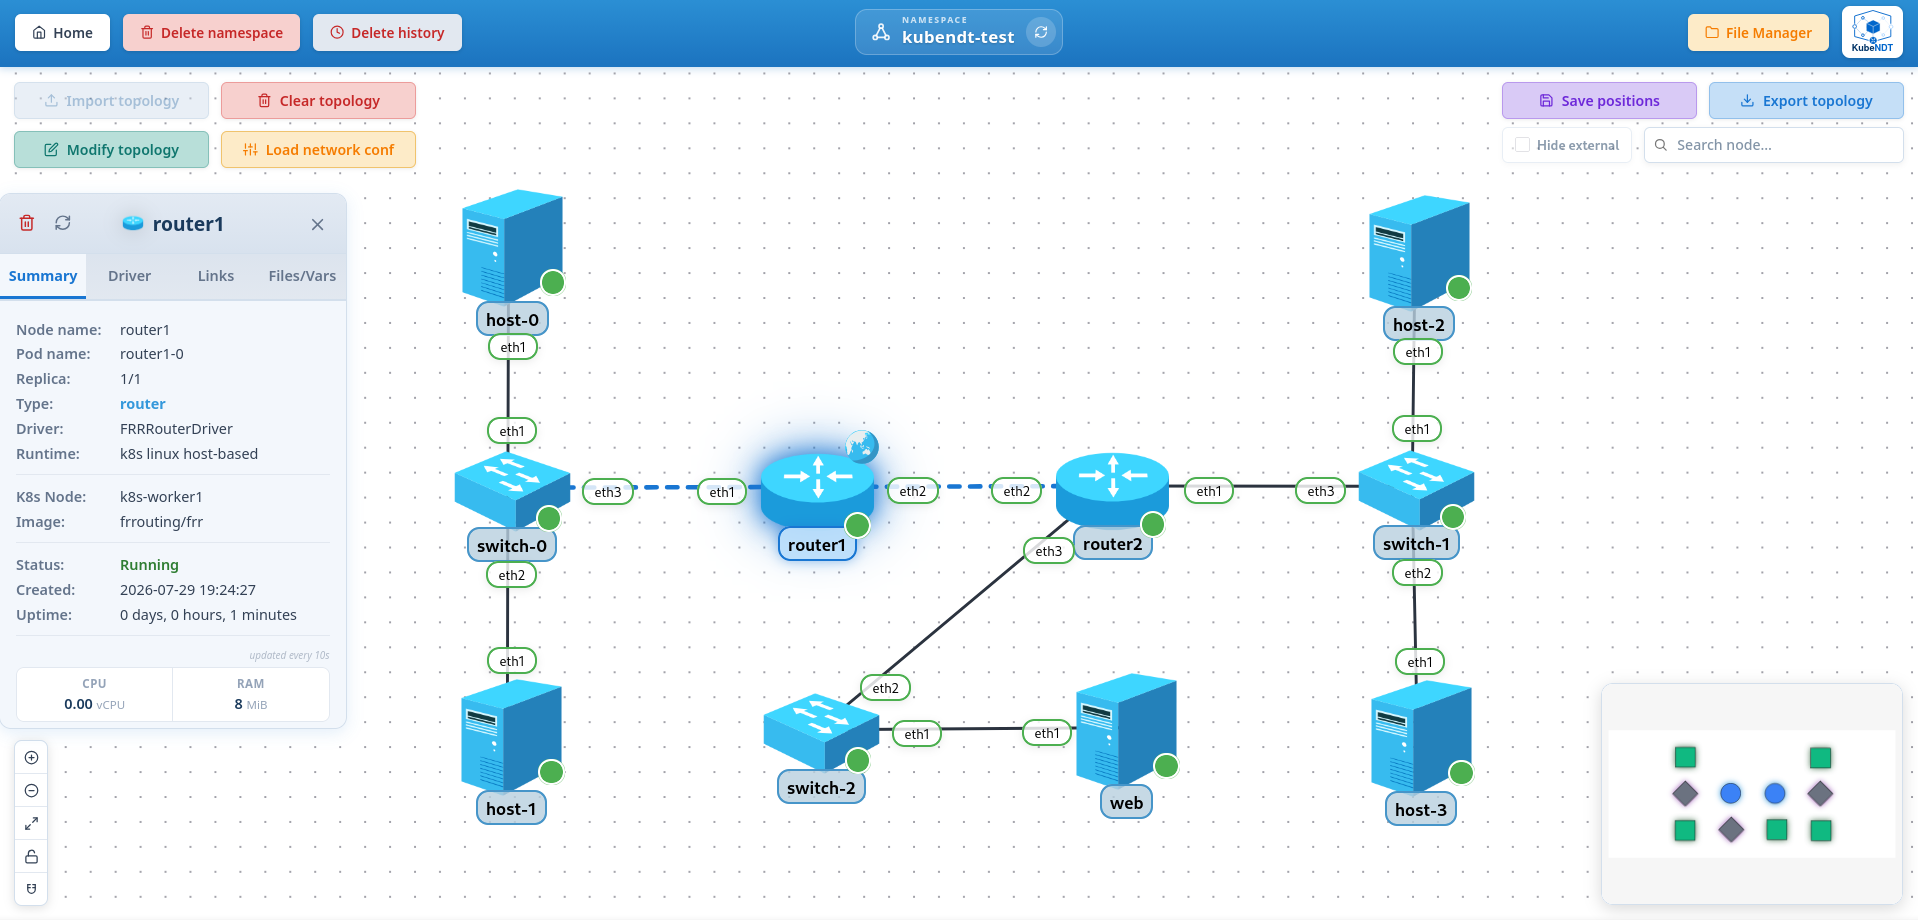
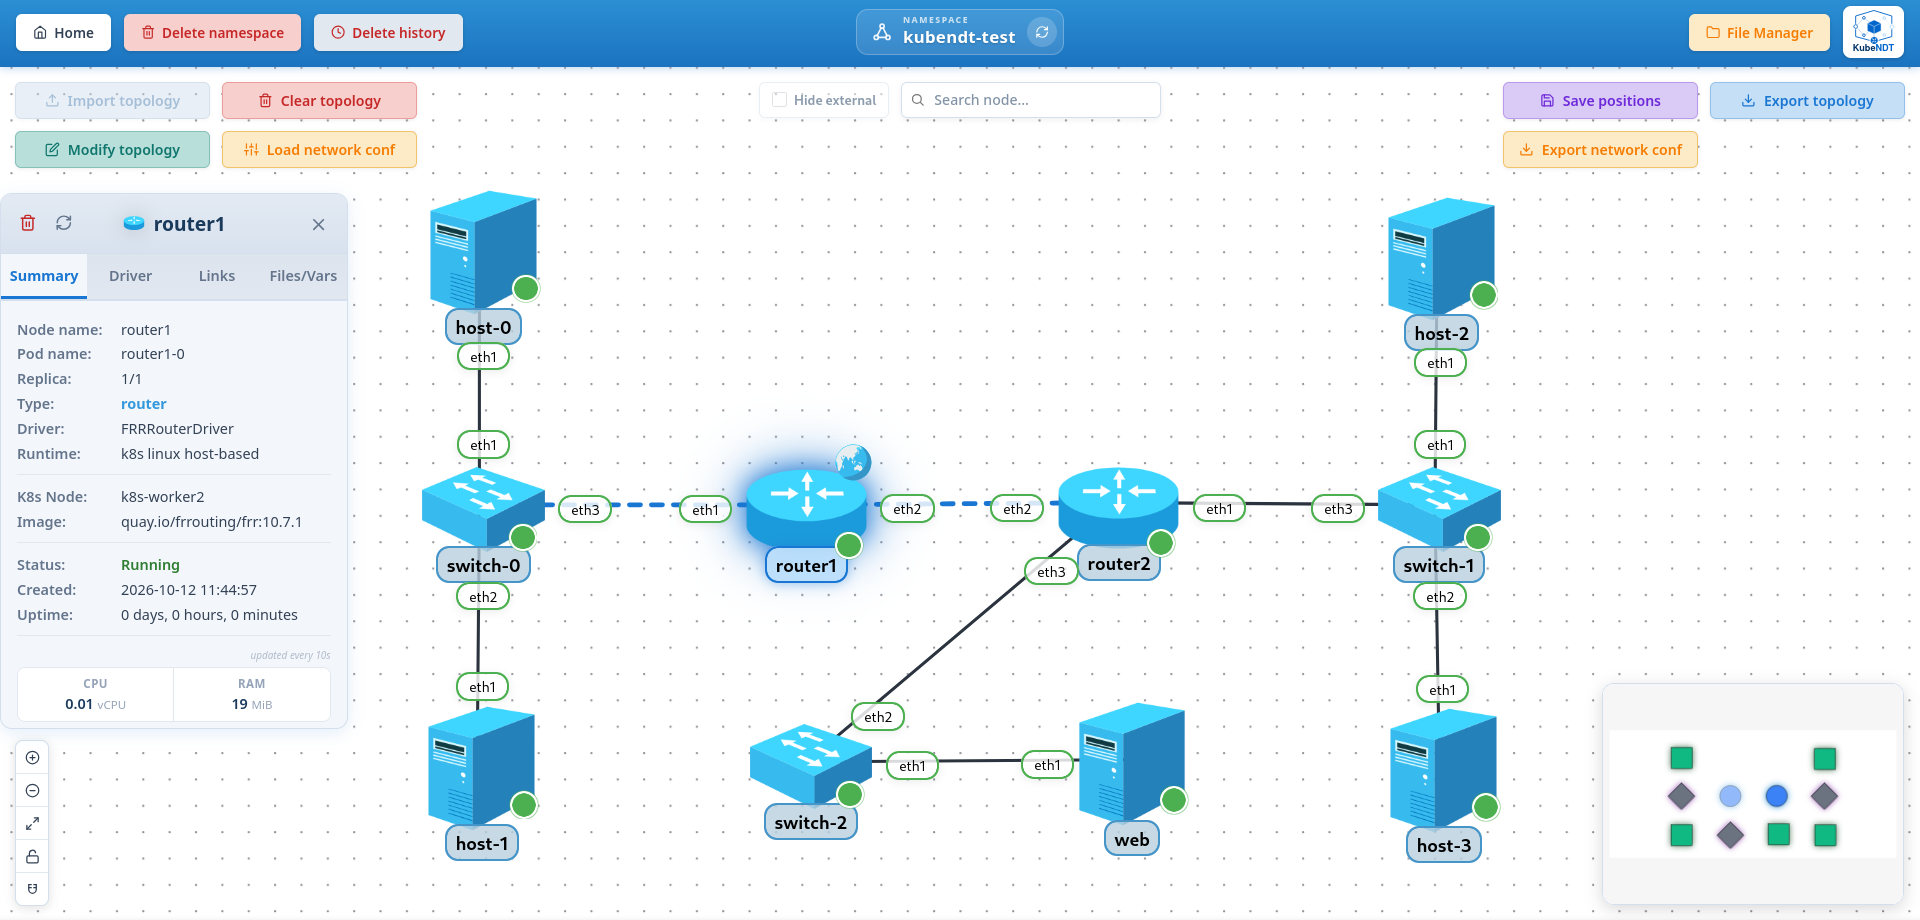
export the applied configuration of a namespace as a network conf (#78)

diff --git a/frontend/src/components/NetworkGraph.js b/frontend/src/components/NetworkGraph.js
@@ -2035,6 +2035,40 @@ const NetworkGraph = ({ namespace, onError, onImportingChange, refreshTrigger = 
     }
   };
 
+  // Downloads the configuration applied in this namespace as a network_conf
+  // JSON, the same file Load network conf takes.
+  const handleExportNetworkConf = async () => {
+    if (!namespace) return;
+
+    try {
+      const res = await fetch(`${API_BASE_URL}/network/export-conf/${namespace}`);
+      const data = await res.json();
+      if (!res.ok) throw new Error(data?.error || `HTTP ${res.status}`);
+      if (!data.targets || data.targets.length === 0) {
+        setAlertModal({
+          isOpen: true,
+          type: 'warning',
+          title: 'Nothing to export',
+          message: 'No configuration has been applied in this namespace yet.',
+          onConfirm: () => setAlertModal((prev) => ({ ...prev, isOpen: false })),
+          onCancel: () => setAlertModal((prev) => ({ ...prev, isOpen: false })),
+        });
+        return;
+      }
+
+      const blob = new Blob([JSON.stringify(data, null, 2)], { type: 'application/json' });
+      const url = URL.createObjectURL(blob);
+      const a = document.createElement('a');
+      a.href = url;
+      a.download = `network_conf-${namespace}.json`;
+      a.click();
+      URL.revokeObjectURL(url);
+    } catch (err) {
+      console.error('❌ Error exporting network conf:', err);
+      showError('Export failed', err.message || 'Could not export the network configuration.');
+    }
+  };
+
   // Pure validator for the import (deploy) payload. Throws on the first error encountered.
   // Does NOT mutate the input, name resolution happens in applyImportTopology.
   const validateImportTopologyPayload = (json) => {
@@ -3654,28 +3688,8 @@ const NetworkGraph = ({ namespace, onError, onImportingChange, refreshTrigger = 
             </button>
           </div>
 
-          {/* DERECHA */}
-          <div className="topbar-right">
-            <div className="topbar-right-buttons">
-              <button
-                onClick={!isBusy ? handleSavePositions : undefined}
-                disabled={nodes.length === 0 || isBusy}
-                title="Save node positions (x,y)"
-              >
-                <SaveIcon className="app-icon" aria-hidden="true" />
-                Save positions
-              </button>
-
-              <button
-                disabled={nodes.length === 0 || isBusy}
-                onClick={!isBusy ? handleExportTopology : undefined}
-                title="Export current topology as JSON"
-              >
-                <DownloadIcon className="app-icon" aria-hidden="true" />
-                Export topology
-              </button>
-            </div>
-
+          {/* CENTRO */}
+          <div className="topbar-center">
             <div className="topbar-tools-row">
               <label
                 className={`topbar-toggle${hasExternalNodes ? '' : ' disabled'}`}
@@ -3727,6 +3741,39 @@ const NetworkGraph = ({ namespace, onError, onImportingChange, refreshTrigger = 
                   </button>
                 )}
               </div>
+            </div>
+          </div>
+
+          {/* DERECHA */}
+          <div className="topbar-right">
+            <div className="topbar-right-buttons">
+              <button
+                onClick={!isBusy ? handleSavePositions : undefined}
+                disabled={nodes.length === 0 || isBusy}
+                title="Save node positions (x,y)"
+              >
+                <SaveIcon className="app-icon" aria-hidden="true" />
+                Save positions
+              </button>
+
+              <button
+                disabled={nodes.length === 0 || isBusy}
+                onClick={!isBusy ? handleExportTopology : undefined}
+                title="Export current topology as JSON"
+              >
+                <DownloadIcon className="app-icon" aria-hidden="true" />
+                Export topology
+              </button>
+
+              <button
+                className="topbar-action-export-config"
+                disabled={nodes.length === 0 || isBusy}
+                onClick={!isBusy ? handleExportNetworkConf : undefined}
+                title="Export the configuration applied in this namespace as network conf JSON"
+              >
+                <DownloadIcon className="app-icon" aria-hidden="true" />
+                Export network conf
+              </button>
             </div>
           </div>
         </div>

diff --git a/frontend/src/components/NetworkGraph.css b/frontend/src/components/NetworkGraph.css
@@ -16,8 +16,15 @@
 }
 
 .topbar-left,
+.topbar-center,
 .topbar-right {
   pointer-events: auto;
+}
+
+/* Search and the external toggle sit in the middle, level with the first
+   row of buttons on either side. */
+.topbar-center {
+  align-self: flex-start;
 }
 
 /* --- Animación de carga inicial (puntos sutiles) --- */
@@ -282,6 +289,13 @@
   background: color-mix(in srgb, var(--info-bg), var(--primary) var(--tonal-btn-tint));
   border-color: color-mix(in srgb, var(--primary) 30%, transparent);
   color: var(--primary);
+}
+
+/* Export network conf: amber tonal, matching Load network conf. */
+.topbar-right-buttons button.topbar-action-export-config {
+  background: color-mix(in srgb, var(--warning-bg), var(--warning) var(--tonal-btn-tint));
+  border-color: var(--warning-border);
+  color: var(--warning-strong);
 }
 
 .topbar button:active:not(:disabled) {

diff --git a/backend/helpers/network_conf_export_test.go b/backend/helpers/network_conf_export_test.go
@@ -1,0 +1,42 @@
+package helpers
+
+import (
+	"encoding/json"
+	"testing"
+
+	"kubendt/types"
+)
+
+func TestBuildNetworkConf(t *testing.T) {
+	capture := true
+	ops := []PersistedDriverOperation{
+		{ID: 1, PodName: "router1-0", Action: types.ActionEntry{Type: "set_ip", Iface: "eth1", CIDR: "10.0.0.1/24"}},
+		{ID: 2, PodName: "host-0", Action: types.ActionEntry{Type: "replace_ip", Iface: "eth1", CIDR: "10.0.0.2/24", Options: &types.ActionOptions{CaptureOutput: &capture}}},
+		{ID: 3, PodName: "router1-0", ActionType: "enable_snat", Action: types.ActionEntry{Iface: "eth0"}},
+		{ID: 4, PodName: "gone-0", Action: types.ActionEntry{Type: "set_ip", Iface: "eth1", CIDR: "10.0.0.9/24"}},
+		{ID: 5, PodName: "host-0", Action: types.ActionEntry{Type: "custom", Command: json.RawMessage(`"echo hi"`), Executor: "kubectl"}},
+	}
+	got := buildNetworkConf(ops, map[string]bool{"router1-0": true, "host-0": true})
+
+	if len(got.Targets) != 2 || got.Targets[0].Pod != "router1-0" || got.Targets[1].Pod != "host-0" {
+		t.Fatalf("targets: %+v", got.Targets)
+	}
+	r := got.Targets[0].Actions
+	if len(r) != 2 || r[0].Type != "set_ip" || r[1].Type != "enable_snat" || r[1].Iface != "eth0" {
+		t.Errorf("router actions: %+v", r)
+	}
+	h := got.Targets[1].Actions
+	if len(h) != 2 || h[0].Options != nil || h[1].Executor != "kubectl" || string(h[1].Command) != `"echo hi"` {
+		t.Errorf("host actions: %+v", h)
+	}
+
+	raw, _ := json.Marshal(got)
+	if want := `{"targets":[{"pod":"router1-0","actions":[{"type":"set_ip","iface":"eth1","cidr":"10.0.0.1/24"},{"type":"enable_snat","iface":"eth0"}]},{"pod":"host-0","actions":[{"type":"replace_ip","iface":"eth1","cidr":"10.0.0.2/24"},{"type":"custom","command":"echo hi","executor":"kubectl"}]}]}`; string(raw) != want {
+		t.Errorf("json:\n got  %s\n want %s", raw, want)
+	}
+
+	empty := buildNetworkConf(nil, map[string]bool{})
+	if raw, _ := json.Marshal(empty); string(raw) != `{"targets":[]}` {
+		t.Errorf("empty history: %s", raw)
+	}
+}

diff --git a/backend/helpers/network_conf_export.go b/backend/helpers/network_conf_export.go
@@ -1,0 +1,55 @@
+package helpers
+
+import (
+	"fmt"
+
+	"kubendt/types"
+)
+
+// ExportNetworkConf turns the persisted history of a namespace into the
+// configure request that reproduces it: one target per pod that still
+// exists, with its operations in the order they were applied. Loading the
+// result back is the same as the replay a restart does.
+func ExportNetworkConf(namespace string) (types.ConfigureNetworkRequest, error) {
+	ops, err := ListDriverOperationsForNamespace(namespace)
+	if err != nil {
+		return types.ConfigureNetworkRequest{}, err
+	}
+	nodes, err := GetExistingNodes(namespace)
+	if err != nil {
+		return types.ConfigureNetworkRequest{}, err
+	}
+	existing := map[string]bool{}
+	for _, n := range nodes {
+		for i := 0; i < n.Replicas; i++ {
+			existing[fmt.Sprintf("%s-%d", n.Name, i)] = true
+		}
+	}
+	return buildNetworkConf(ops, existing), nil
+}
+
+// buildNetworkConf groups operations by pod, first pod first, keeping only
+// pods in existing. Options are dropped: everything in the history was
+// persisted, and output capture is a request-time choice.
+func buildNetworkConf(ops []PersistedDriverOperation, existing map[string]bool) types.ConfigureNetworkRequest {
+	req := types.ConfigureNetworkRequest{Targets: []types.PodConfig{}}
+	index := map[string]int{}
+	for _, op := range ops {
+		if !existing[op.PodName] {
+			continue
+		}
+		action := op.Action
+		if action.Type == "" {
+			action.Type = op.ActionType
+		}
+		action.Options = nil
+		i, ok := index[op.PodName]
+		if !ok {
+			i = len(req.Targets)
+			index[op.PodName] = i
+			req.Targets = append(req.Targets, types.PodConfig{Pod: op.PodName, Actions: []types.ActionEntry{}})
+		}
+		req.Targets[i].Actions = append(req.Targets[i].Actions, action)
+	}
+	return req
+}

diff --git a/backend/docs/docs.go b/backend/docs/docs.go
@@ -1873,6 +1873,41 @@ const docTemplate = `{
                 }
             }
         },
+        "/network/export-conf/{namespace}": {
+            "get": {
+                "description": "Returns the operations persisted for the pods of a namespace as a configure request (one target per pod, actions in the order they were applied), ready to be loaded again with POST /network/configure.",
+                "produces": [
+                    "application/json"
+                ],
+                "tags": [
+                    "network"
+                ],
+                "summary": "Export the applied network configuration",
+                "parameters": [
+                    {
+                        "type": "string",
+                        "description": "Namespace name",
+                        "name": "namespace",
+                        "in": "path",
+                        "required": true
+                    }
+                ],
+                "responses": {
+                    "200": {
+                        "description": "OK",
+                        "schema": {
+                            "$ref": "#/definitions/types.ConfigureNetworkRequest"
+                        }
+                    },
+                    "500": {
+                        "description": "Internal Server Error",
+                        "schema": {
+                            "$ref": "#/definitions/types.ErrorResponse"
+                        }
+                    }
+                }
+            }
+        },
         "/network/get-network/{namespace}": {
             "get": {
                 "description": "Returns the current network topology deployed in a namespace.",

diff --git a/backend/swagger_annotations.go b/backend/swagger_annotations.go
@@ -897,3 +897,15 @@ var _ = types.PodMetricsUnavailableResponse{}
 var _ = types.TraceReportResponse{}
 var _ = types.TraceHopDoc{}
 var _ = types.TraceMetricsDoc{}
+
+// swaggerExportNetworkConf godoc
+//
+//	@Summary      Export the applied network configuration
+//	@Description  Returns the operations persisted for the pods of a namespace as a configure request (one target per pod, actions in the order they were applied), ready to be loaded again with POST /network/configure.
+//	@Tags         network
+//	@Produce      json
+//	@Param        namespace  path      string  true  "Namespace name"
+//	@Success      200        {object}  types.ConfigureNetworkRequest
+//	@Failure      500        {object}  types.ErrorResponse
+//	@Router       /network/export-conf/{namespace} [get]
+func swaggerExportNetworkConf() {}

diff --git a/backend/handlers/network.go b/backend/handlers/network.go
@@ -1348,3 +1348,15 @@ func GetNetwork(c *gin.Context) {
 
 	c.Data(http.StatusOK, "application/json", responseJSON)
 }
+
+// GET /network/export-conf/:namespace -> the configuration applied in the
+// namespace as a configure request, ready for POST /network/configure.
+func ExportNetworkConf(c *gin.Context) {
+	namespace := c.Param("namespace")
+	conf, err := helpers.ExportNetworkConf(namespace)
+	if err != nil {
+		c.JSON(http.StatusInternalServerError, gin.H{"error": err.Error()})
+		return
+	}
+	c.JSON(http.StatusOK, conf)
+}

diff --git a/backend/routes.go b/backend/routes.go
@@ -115,6 +115,8 @@ func SetupRoutes(router *gin.Engine) {
 		netGroup.GET("/positions/:namespace", handlers.GetNodePositions)
 		// Configure Pods via DRIVERS (includes network config)
 		netGroup.POST("/configure/:namespace", handlers.ConfigureNetwork)
+		// The applied configuration as a configure request
+		netGroup.GET("/export-conf/:namespace", handlers.ExportNetworkConf)
 	}
 
 	// === File Control Routes ===

diff --git a/CHANGELOG.md b/CHANGELOG.md
@@ -18,6 +18,7 @@ The format is based on [Keep a Changelog](https://keepachangelog.com/en/1.1.0/),
 - Every action is validated before it runs: a missing or malformed field fails the action with the field named, and nothing reaches the pod.
 - A `custom` action takes an optional `executor`: `kubectl` by default, `ssh_qemu` for a shell in a VyOS guest or `vyos_ssh_cli` for an op-mode command there.
 - A deploy that times out on a node that never gets Ready quotes its readiness probe, so an image without `ip` reads as such.
+- `GET /network/export-conf/{namespace}` returns the configuration applied in a namespace as a configure request, and the dashboard downloads it with Export network conf, ready for Load network conf.
 
 ### Changed
 
